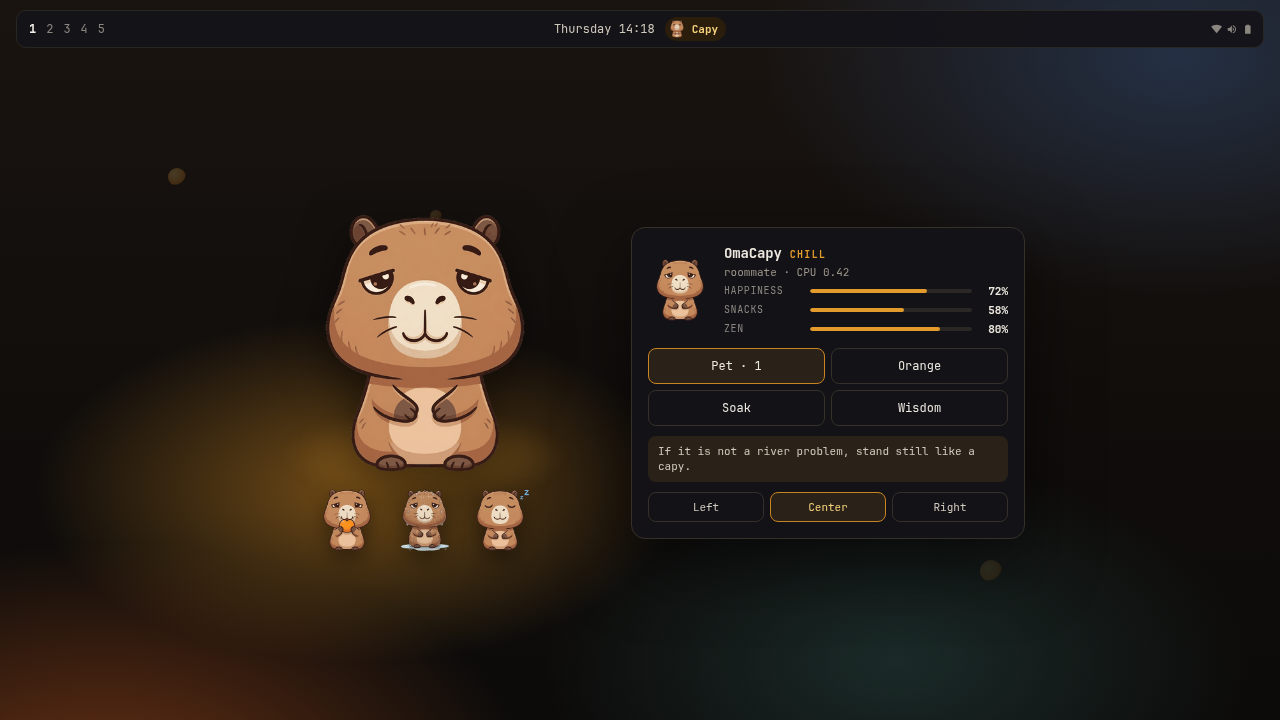
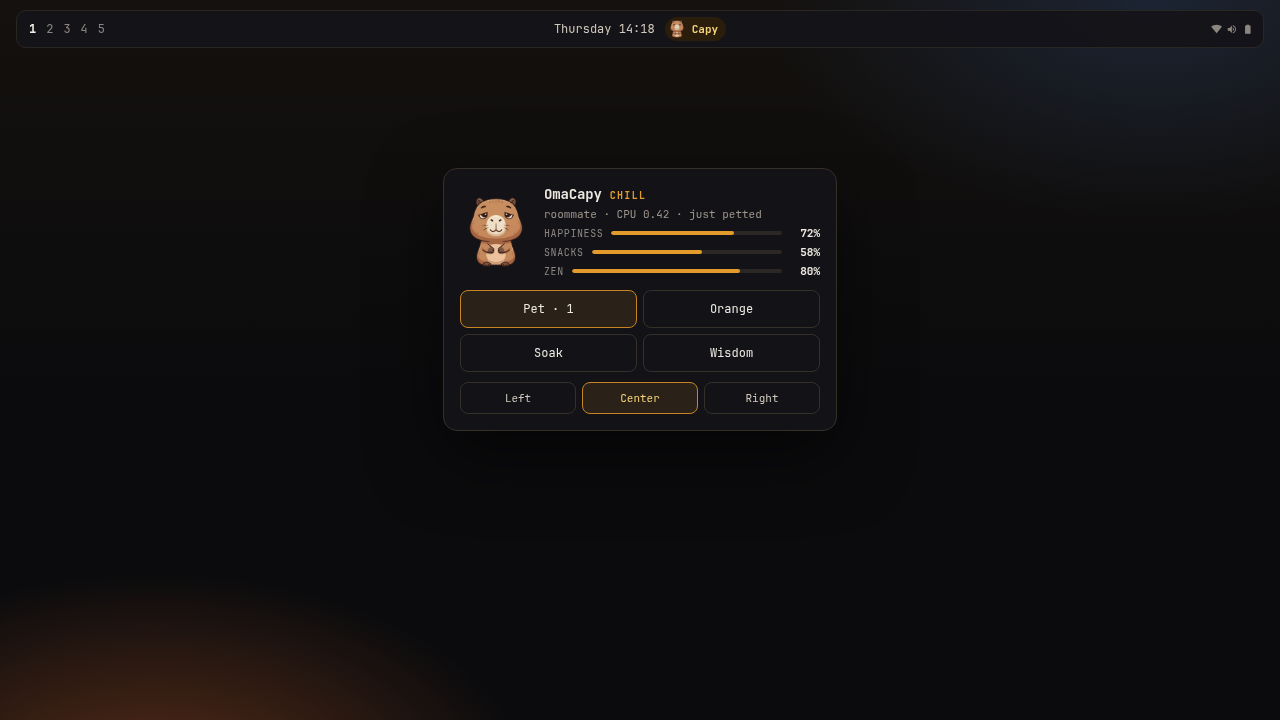
Match the store preview to the compact lounge
Meters sit beside the face, care is a 2x2, and Side is the
bottom row — the same layout the bar opens now.

diff --git a/scripts/preview.html b/scripts/preview.html
@@ -10,25 +10,15 @@
     body {
       font-family: JB, ui-monospace, monospace;
       color: #ece8df;
-      background: #120e0b;
+      background: #0b0b0d;
     }
     .desk {
       position: relative; width: 1280px; height: 720px;
       background:
-        radial-gradient(520px 280px at 28% 68%, #c9842288 0%, transparent 62%),
-        radial-gradient(900px 520px at 8% 110%, #6a3214 0%, transparent 48%),
-        radial-gradient(800px 460px at 92% 8%, #243044 0%, transparent 52%),
-        radial-gradient(640px 360px at 70% 92%, #1a2a28 0%, transparent 55%),
-        linear-gradient(180deg, #1a1410 0%, #100d0b 58%, #0c0b0a 100%);
+        radial-gradient(900px 520px at 12% 110%, #5a2e18 0%, transparent 42%),
+        radial-gradient(800px 460px at 90% 0%, #1c2433 0%, transparent 48%),
+        linear-gradient(180deg, #14110e 0%, #0b0b0d 55%);
     }
-    .orb {
-      position: absolute; border-radius: 50%;
-      background: radial-gradient(circle at 35% 30%, #f6d27a, #e08a22 62%, transparent 70%);
-      opacity: 0.22; filter: blur(0.4px);
-    }
-    .orb.a { width: 18px; height: 18px; left: 168px; top: 168px; }
-    .orb.b { width: 12px; height: 12px; left: 430px; top: 210px; opacity: 0.16; }
-    .orb.c { width: 22px; height: 22px; left: 980px; top: 560px; opacity: 0.14; }
     .bar {
       position: absolute; left: 16px; right: 16px; top: 10px; height: 36px;
       display: grid; grid-template-columns: 1fr auto 1fr;
@@ -52,31 +42,10 @@
     }
     .badge img { width: 18px; height: 18px; object-fit: contain; }
 
-    .stage {
-      position: absolute; left: 0; right: 0; top: 46px; bottom: 0;
-      display: flex; align-items: center; justify-content: center; gap: 36px;
-    }
-    .friend { width: 340px; text-align: center; position: relative; }
-    .glow {
-      position: absolute; left: 50%; top: 58%;
-      width: 280px; height: 90px; margin-left: -140px;
-      background: radial-gradient(ellipse, #e39b2b66 0%, transparent 72%);
-      filter: blur(6px);
-    }
-    .friend > img {
-      position: relative;
-      width: 268px; height: 268px; object-fit: contain;
-      filter: drop-shadow(0 18px 24px #0008);
-    }
-    .moods { margin-top: 6px; display: flex; justify-content: center; gap: 14px; }
-    .moods figure { margin: 0; }
-    .moods img {
-      width: 64px; height: 64px; object-fit: contain;
-      filter: drop-shadow(0 8px 10px #0006);
-    }
-
     .panel {
+      position: absolute; left: 50%; top: 168px;
       width: 360px;
+      transform: translateX(-50%);
       padding: 16px;
       border-radius: 14px;
       background: #141318f5;
@@ -84,15 +53,15 @@
       box-shadow: 0 24px 70px #0008;
     }
     .hero { display: flex; align-items: center; gap: 12px; }
-    .hero img { width: 64px; height: 68px; object-fit: contain; flex: 0 0 auto; }
+    .hero img { width: 72px; height: 78px; object-fit: contain; flex: 0 0 auto; }
     .copy { flex: 1; min-width: 0; }
     .title-row { display: flex; align-items: baseline; gap: 8px; }
     .title { font-size: 14px; font-weight: 700; letter-spacing: -0.01em; }
     .mood { color: #e39b2b; font-size: 10px; font-weight: 700; letter-spacing: 0.12em; }
-    .meta { margin-top: 3px; color: #9c958a; font-size: 11px; }
+    .meta { margin-top: 4px; color: #9c958a; font-size: 11px; }
 
     .meter {
-      display: grid; grid-template-columns: 78px 1fr 28px;
+      display: grid; grid-template-columns: auto 1fr 30px;
       align-items: center; gap: 8px; margin-top: 5px;
     }
     .meter .k { color: #8b8680; font-size: 10px; letter-spacing: 0.06em; }
@@ -105,17 +74,13 @@
       margin-top: 12px;
     }
     .act {
-      height: 34px; display: grid; place-items: center;
+      height: 36px; display: grid; place-items: center;
       border-radius: 8px; font-size: 12px; border: 1px solid #353028;
     }
     .act.sel { background: #2a2218; border-color: #c98422; }
-    .quote {
-      margin-top: 10px; padding: 8px 10px; border-radius: 8px;
-      background: #2a2218; color: #cfc8bc; font-size: 11px; line-height: 1.4;
-    }
     .sides { display: flex; gap: 6px; margin-top: 10px; }
     .sides span {
-      flex: 1; height: 28px; display: grid; place-items: center;
+      flex: 1; height: 30px; display: grid; place-items: center;
       border-radius: 8px; border: 1px solid #353028; font-size: 11px; color: #cfc8bc;
     }
     .sides .on { background: #2a2218; border-color: #c98422; color: #f6d27a; }
@@ -123,9 +88,6 @@
 </head>
 <body>
   <div class="desk">
-    <div class="orb a"></div>
-    <div class="orb b"></div>
-    <div class="orb c"></div>
     <div class="bar">
       <div class="ws"><b>1</b><span>2</span><span>3</span><span>4</span><span>5</span></div>
       <div class="mid">
@@ -136,42 +98,30 @@
         <span></span><span></span><span></span>
       </div>
     </div>
-    <div class="stage">
-      <div class="friend">
-        <div class="glow"></div>
+    <section class="panel">
+      <div class="hero">
         <img src="../capy.png" alt="">
-        <div class="moods">
-          <figure><img src="../capy-munching.png" alt=""></figure>
-          <figure><img src="../capy-soaked.png" alt=""></figure>
-          <figure><img src="../capy-napping.png" alt=""></figure>
+        <div class="copy">
+          <div class="title-row">
+            <div class="title">OmaCapy</div>
+            <div class="mood">CHILL</div>
+          </div>
+          <div class="meta">roommate  ·  CPU 0.42  ·  just petted</div>
+          <div class="meter"><div class="k">HAPPINESS</div><div class="track"><div class="fill" style="width:72%"></div></div><div class="v">72%</div></div>
+          <div class="meter"><div class="k">SNACKS</div><div class="track"><div class="fill" style="width:58%"></div></div><div class="v">58%</div></div>
+          <div class="meter"><div class="k">ZEN</div><div class="track"><div class="fill" style="width:80%"></div></div><div class="v">80%</div></div>
         </div>
       </div>
-      <section class="panel">
-        <div class="hero">
-          <img src="../capy.png" alt="">
-          <div class="copy">
-            <div class="title-row">
-              <div class="title">OmaCapy</div>
-              <div class="mood">CHILL</div>
-            </div>
-            <div class="meta">roommate  ·  CPU 0.42</div>
-            <div class="meter"><div class="k">HAPPINESS</div><div class="track"><div class="fill" style="width:72%"></div></div><div class="v">72%</div></div>
-            <div class="meter"><div class="k">SNACKS</div><div class="track"><div class="fill" style="width:58%"></div></div><div class="v">58%</div></div>
-            <div class="meter"><div class="k">ZEN</div><div class="track"><div class="fill" style="width:80%"></div></div><div class="v">80%</div></div>
-          </div>
-        </div>
-        <div class="acts">
-          <div class="act sel">Pet  ·  1</div>
-          <div class="act">Orange</div>
-          <div class="act">Soak</div>
-          <div class="act">Wisdom</div>
-        </div>
-        <div class="quote">If it is not a river problem, stand still like a capy.</div>
-        <div class="sides">
-          <span>Left</span><span class="on">Center</span><span>Right</span>
-        </div>
-      </section>
-    </div>
+      <div class="acts">
+        <div class="act sel">Pet  ·  1</div>
+        <div class="act">Orange</div>
+        <div class="act">Soak</div>
+        <div class="act">Wisdom</div>
+      </div>
+      <div class="sides">
+        <span>Left</span><span class="on">Center</span><span>Right</span>
+      </div>
+    </section>
   </div>
 </body>
 </html>
